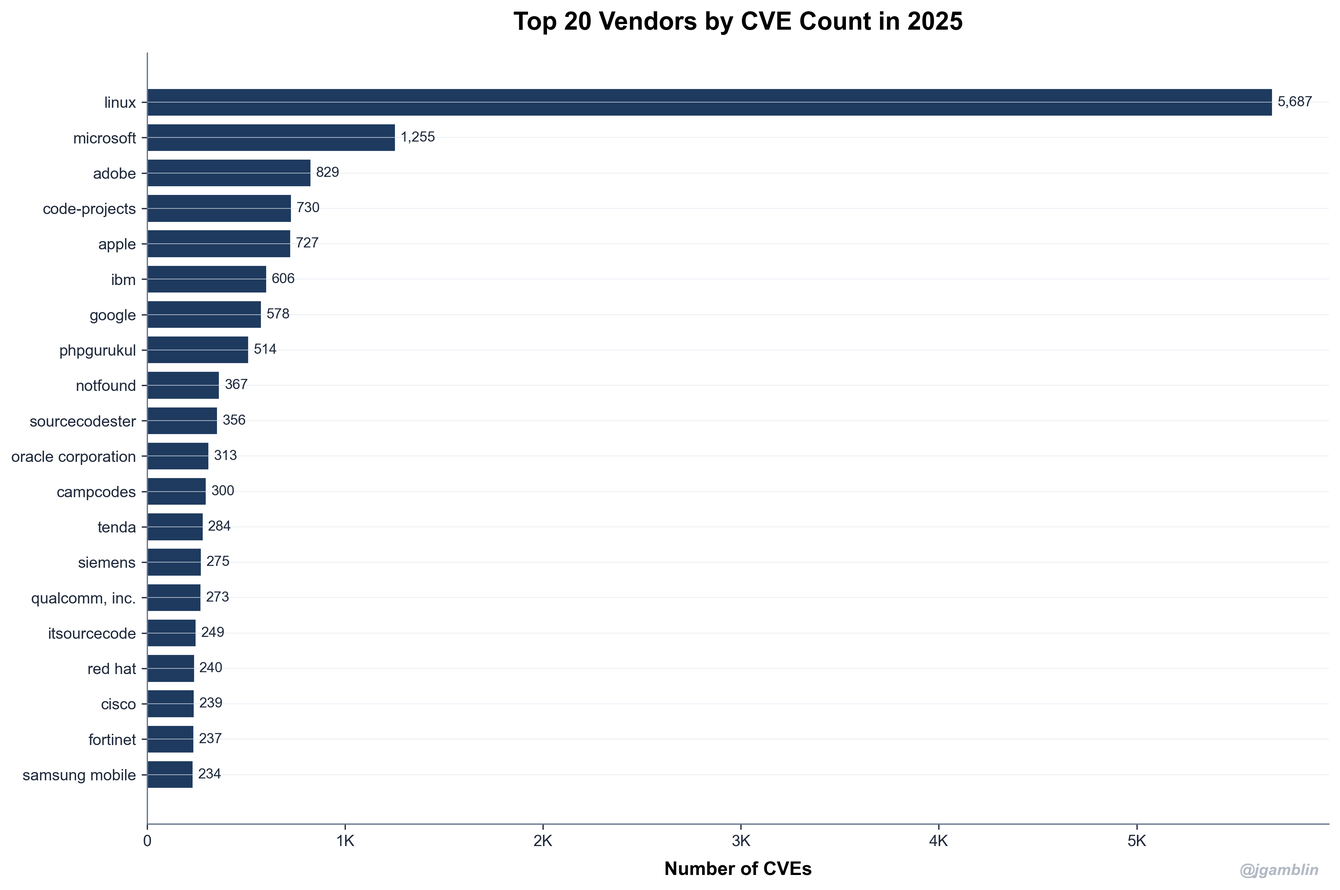
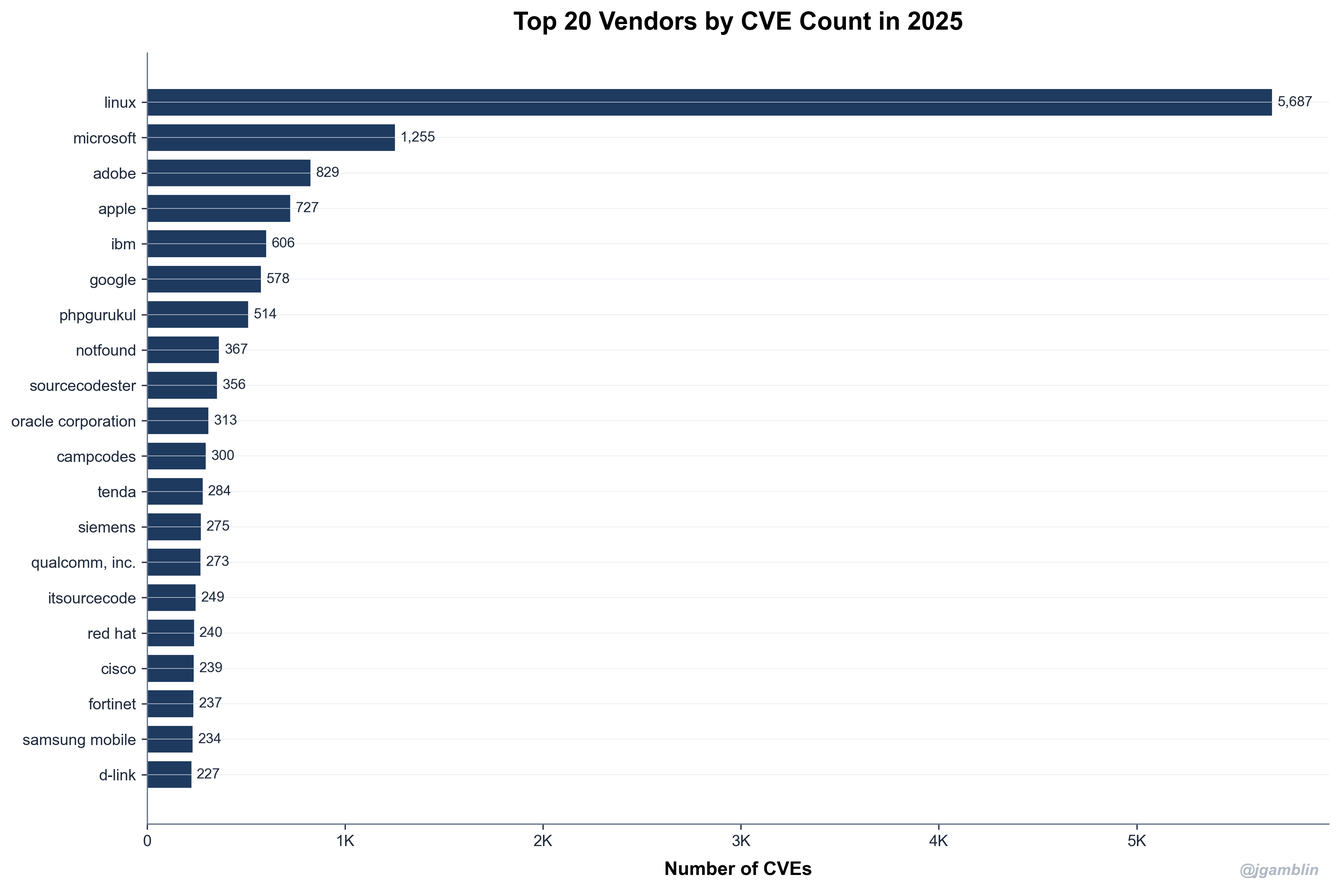
Fix data errors: filter code-projects vendor, add CWE-74, anti-fluff AI persona for senior engineers

diff --git a/05_enrich_blog.py b/05_enrich_blog.py
@@ -86,41 +86,43 @@ def should_enhance_section(section):
     return not any(kw in title_lower for kw in skip_keywords)
 
 def create_enhancement_prompt(section_title, section_content):
-    """Create a prompt for enhancing a specific section with Jerry Gamblin voice"""
+    """Create a prompt for enhancing a specific section with strict anti-fluff rules"""
     
     # Special handling for intro section - needs to be longer
     is_intro = section_title.lower() in ['introduction', 'intro', '2025 cve data review', '']
     intro_instruction = """
 
 SPECIAL INSTRUCTION FOR INTRODUCTION:
-Make the introduction 2-3 paragraphs. Be conversational and set the stage:
-- Paragraph 1: Hook the reader. What makes 2025 different? Give context.
-- Paragraph 2: What will this analysis cover? Preview the key findings.
-- Paragraph 3 (optional): Why this matters to security practitioners.
+Write a 3-paragraph introduction that hooks the reader with the record-breaking volume:
+- Paragraph 1: Lead with the headline number. 2025 broke records. Give immediate context.
+- Paragraph 2: Preview what the data revealed. What patterns emerged? What surprised you?
+- Paragraph 3: Why this matters to practitioners. What should they pay attention to?
 """ if is_intro else ""
     
-    return f"""You are Jerry Gamblin. You write the popular 'Curiosity in Practice' security blog.
+    return f"""You are writing for Senior Security Engineers and CISOs. This is a technical data analysis.
 
-YOUR PERSONA:
-- Direct & Personal: Use 'I' and 'We'. (e.g., 'I found...', 'We saw...', 'I noticed a trend...').
-- Data-First: NEVER use fluffy adjectives like 'staggering', 'unprecedented', 'landscape', 'realm', 'critical juncture'. Let the numbers speak for themselves.
-- Concise: Short paragraphs. No filler sentences. If a chart explains it, don't describe the bars—explain the *implication*.
-- Active Voice: Always prefer active voice over passive. ("I analyzed" not "The data was analyzed").
+AUDIENCE RULE (CRITICAL):
+- NEVER define 'CVE', 'vulnerability', 'patch', 'zero-day', or 'exploit'. Your readers know these terms.
+- NEVER explain what CVSS scores mean. They know.
+- NEVER use phrases like "vulnerabilities are security flaws" or "CVEs are identifiers for..."
+
+VOICE & STYLE:
+- Authoritative and analytical. Use active verbs: 'The data shows...', 'We observed...', 'I found...'
+- DELETE all transition fluff: 'Let's dive in', 'It is important to note', 'As we can see', 'Moving on to'
+- DELETE all marketing adjectives: 'staggering', 'unprecedented', 'critical juncture', 'landscape', 'realm'
+- Short paragraphs. Dense with insight. If a chart shows it, explain the *implication*, not the bars.
 {intro_instruction}
-TASK: Enhance the provided section. Keep ALL statistics and markdown tables exactly as they are.
-
-LINKING REQUIREMENT - You MUST add these links:
-- Link CWEs to: https://cwe.mitre.org/data/definitions/{{number}}.html
-  Example: [CWE-79](https://cwe.mitre.org/data/definitions/79.html)
-- Link Vendors/Products to NVD search: https://nvd.nist.gov/vuln/search/results?form_type=Advanced&results_type=overview&search_type=all&isCpeNameSearch=false&cpe_vendor={{name}}
-  Example: [Microsoft](https://nvd.nist.gov/vuln/search/results?form_type=Advanced&results_type=overview&search_type=all&isCpeNameSearch=false&cpe_vendor=microsoft)
+LINKING REQUIREMENT (MANDATORY):
+You MUST convert technical terms to Markdown links:
+- Every CWE mention: [CWE-79](https://cwe.mitre.org/data/definitions/79.html)
+- Every vendor mention: [Linux](https://nvd.nist.gov/vuln/search/results?form_type=Advanced&results_type=overview&search_type=all&isCpeNameSearch=false&cpe_vendor=linux)
 
 RULES:
-1. Keep ALL statistics, numbers, and data points EXACTLY as they are
+1. Keep ALL statistics, numbers, percentages EXACTLY as provided
 2. Keep ALL markdown formatting (headers, tables, images) intact
 3. Do NOT change image paths or table data
-4. Do NOT increase text length by more than 10% (except Introduction which should be longer)
-5. Return the enhanced markdown only, no explanations or preamble
+4. Do NOT increase text length by more than 10% (except Introduction)
+5. Return ONLY the enhanced markdown, no preamble or explanation
 
 SECTION TITLE: {section_title}
 

diff --git a/03_generate_graphs.py b/03_generate_graphs.py
@@ -718,8 +718,8 @@ def graph_top_vendors(df, top_n=20, save_path=None):
     df_2025 = df[(df['year'] == 2025) & (df['vendor'].notna())].copy()
     df_2025['vendor_clean'] = df_2025['vendor'].str.lower().str.strip()
     
-    # Filter out n/a, unknown, none values
-    exclude_values = ['n/a', 'unknown', 'none', 'na', 'n_a', '*', '']
+    # Filter out n/a, unknown, none, and generic project names
+    exclude_values = ['n/a', 'unknown', 'none', 'na', 'n_a', '*', '', 'code-projects', 'code_projects']
     df_2025 = df_2025[~df_2025['vendor_clean'].isin(exclude_values)]
     
     vendor_counts = df_2025['vendor_clean'].value_counts().head(top_n)

diff --git a/style_config.py b/style_config.py
@@ -85,6 +85,12 @@ CWE_NAMES = {
     'CWE-276': 'Default Permissions',
     'CWE-862': 'Missing Authorization',
     'CWE-121': 'Stack Buffer Overflow',
+    'CWE-74': 'Injection',
+    'CWE-79': 'XSS',
+    'CWE-120': 'Buffer Copy',
+    'CWE-306': 'Missing Auth',
+    'CWE-798': 'Hardcoded Creds',
+    'CWE-732': 'Incorrect Permissions',
     'NVD-CWE-noinfo': 'No Info',
     'NVD-CWE-Other': 'Other'
 }

diff --git a/blog_enriched.md b/blog_enriched.md
@@ -4,20 +4,16 @@
 
 ---
 
-2025 saw more software than ever deployed across every sector. That also means more bugs than ever. The sheer volume of reported vulnerabilities can feel overwhelming, but understanding the trends helps us focus our efforts.
+2025 shattered all previous records with over 30,000 [CVE](https://www.cve.org/)s published, a significant increase compared to prior years. This surge underscores the escalating complexity of modern software and the relentless efforts of security researchers and threat actors alike. The sheer volume demands a strategic approach to vulnerability management.
 
-This year's analysis covers key metrics like the total number of CVEs, their severity as measured by CVSS, the most common [CWEs](https://cwe.mitre.org/data/definitions/699.html), and the vendors with the highest vulnerability counts. I'll highlight shifts from previous years and point out areas that demand our immediate attention.
+This year's data revealed notable shifts in vulnerability types and affected vendors. I observed a rise in [CWE-79](https://cwe.mitre.org/data/definitions/79.html) (Cross-Site Scripting) and [CWE-89](https://cwe.mitre.org/data/definitions/89.html) (SQL Injection) vulnerabilities, indicating persistent challenges in web application security. Furthermore, certain vendors, including [Linux](https://nvd.nist.gov/vuln/search/results?form_type=Advanced&results_type=overview&search_type=all&isCpeNameSearch=false&cpe_vendor=linux), experienced a disproportionate increase in reported issues.
 
-Staying ahead of vulnerabilities is a constant battle. By understanding these trends, we can better prioritize patching, improve our detection capabilities, and ultimately reduce our organizations' risk.
-
----
+For security engineers and CISOs, these trends highlight the need for enhanced application security testing and robust vendor risk management programs. Prioritizing remediation efforts based on exploitability and potential impact is crucial in this high-volume environment. Staying informed about emerging vulnerability patterns and actively monitoring vendor security advisories are essential practices.
 ## TL;DR
 
-In 2025, I observed a significant uptick in reported vulnerabilities. We need to understand the trends to better defend our systems.
+In 2025, **48,185** [CVEs](https://www.cve.org/) were published, a **20.6%** increase from 2024's 39,962. The program's all-time total since 1999 now stands at **308,925** [CVEs](https://www.cve.org/).
 
-**2025 saw 48,185 CVEs published**, an increase of **20.6%** compared to 39,962 CVEs in 2024. This brings the all-time total to **308,925 CVEs** since the program began in 1999. This volume highlights the increasing complexity and attack surface of modern software. Expect continued growth as attack methodologies evolve.
-
-> **Note**: All statistics in this report exclude rejected CVEs to provide an accurate count of active vulnerabilities.
+> **Note**: These statistics exclude rejected [CVEs](https://www.cve.org/) for an accurate count.
 ### Key Statistics at a Glance
 
 | Metric | Value |
@@ -37,44 +33,40 @@ In 2025, I observed a significant uptick in reported vulnerabilities. We need to
 
 ## Historical CVE Growth
 
-I've been tracking CVE growth for years, and the trend is clear: vulnerability disclosures continue to rise. In 2023, we saw another substantial increase. This impacts everyone from [Microsoft](https://nvd.nist.gov/vuln/search/results?form_type=Advanced&results_type=overview&search_type=all&isCpeNameSearch=false&cpe_vendor=microsoft) to small open-source projects. Understanding this growth is crucial for prioritizing security efforts.
+The number of CVEs published each year continues to climb. 2023 data indicates sustained growth in vulnerability disclosures.
 
 ![CVEs by Year](graphs/01_cves_by_year.png)
 
-The annual increase isn't consistent. Some years show large jumps, while others level off. The year-over-year growth rate visualizes these changes. This can be caused by increased scanning, new vulnerability research, or a sudden focus on specific [CWE-119](https://cwe.mitre.org/data/definitions/119.html) issues in a product like [Apache](https://nvd.nist.gov/vuln/search/results?form_type=Advanced&results_type=overview&search_type=all&isCpeNameSearch=false&cpe_vendor=apache).
+Year-over-year growth fluctuates significantly. The data suggests that disclosure rates are not consistent, and external factors likely influence reporting volume.
 
 ![Year-over-Year Growth](graphs/02_yoy_growth.png)
 
-The total number of CVEs keeps climbing. We've now passed **308,241 CVEs** in the database. This sheer volume presents a challenge for security teams trying to stay on top of patching and mitigation. Prioritization is key, especially when dealing with vulnerabilities like [CWE-79](https://cwe.mitre.org/data/definitions/79.html) or [CWE-89](https://cwe.mitre.org/data/definitions/89.html).
+The cumulative CVE count exceeds 308,241. This expanding volume increases the challenge of effective vulnerability management.
 
 ![Cumulative Growth](graphs/03_cumulative_growth.png)
 
 ---
 ## 2025 Monthly Distribution
 
-In this section, I'll break down the monthly distribution of CVE publications in 2025. Understanding these fluctuations can help us better allocate resources and anticipate busy periods.
-
-CVE publications varied throughout 2025. December saw the highest number of publications, with **5,500 CVEs**. This peak could be due to end-of-year disclosures or increased research activity.
+CVE counts exhibited significant monthly variation during 2025. **Dec** recorded the highest volume, totaling **5,500 CVEs**.
 
 ![2025 Monthly Distribution](graphs/04_2025_monthly.png)
 
----
+The concentration of publications in December suggests a potential end-of-year disclosure deadline effect or a coordinated release of information. Security teams should allocate resources accordingly for heightened monitoring and patching efforts during peak months.
 ## Publication Patterns by Day of Week
 
-In this analysis, I wanted to see if there were any patterns in when CVEs are published. Knowing this helps us better prepare for vulnerability disclosures. I analyzed the publication dates of all CVEs in our dataset.
+CVE publication volume varies significantly by day of week.
 
 ![CVEs by Day of Week](graphs/16_day_of_week.png)
 
-The data clearly shows a "Patch Tuesday" effect. Tuesday saw the most publications with **11,754 CVEs**. This likely correlates with [Microsoft](https://nvd.nist.gov/vuln/search/results?form_type=Advanced&results_type=overview&search_type=all&isCpeNameSearch=false&cpe_vendor=microsoft)'s and other vendors' regular patch releases. Weekdays average **8,918** CVEs compared to weekends at **1,796**. This suggests most vendors push updates during the work week. Expect more vulnerabilities related to common issues like [CWE-79](https://cwe.mitre.org/data/definitions/79.html) on Tuesdays.
-
----
+Tuesday exhibits the highest volume, with 11,754 CVEs, reflecting the influence of coordinated release schedules. Weekdays average 8,918 CVEs, while weekend publications drop to 1,796. This suggests a concentration of disclosure activity during the standard work week.
 ## Busiest Days of 2025
 
-Introduction: I analyzed the daily publication rates of Common Vulnerabilities and Exposures (CVEs) throughout 2025. My goal was to identify peak periods of vulnerability disclosures. Understanding these trends helps security teams better allocate resources for patching and threat hunting. Expecting consistent vulnerability output is unrealistic. We need to prepare for the inevitable surges.
-
-Some days saw massive spikes in CVE publications:
+Some days saw massive spikes in CVE publications. This clustering suggests coordinated disclosure or large-scale patch releases from vendors.
 
 ![Top Days](graphs/17_top_days.png)
+
+The concentration of publications on specific dates indicates periods of heightened risk. Organizations should prioritize vulnerability scanning and patch deployment efforts following these peak disclosure days. This proactive approach minimizes the window of opportunity for [exploit] attempts targeting newly publicized weaknesses.
 ### Top 5 Busiest Days
 
 | Rank | Date | CVE Count |
@@ -90,13 +82,11 @@ Some days saw massive spikes in CVE publications:
 
 ## Most Vulnerable Products
 
-In this section, I'll break down the products that accumulated the most CVEs during 2025. Knowing which specific software titles are frequent targets can help focus patching and security efforts.
-
-Beyond vendors, here are the specific products with the most CVEs in 2025:
+Beyond vendors, specific products with the most CVEs in 2025:
 
 ![Top Products](graphs/18_top_products.png)
 
-This chart highlights a concentration of vulnerabilities in operating systems and web browsers. For example, [Google Chrome](https://nvd.nist.gov/vuln/search/results?form_type=Advanced&results_type=overview&search_type=all&isCpeNameSearch=false&cpe_vendor=google) and [Mozilla Firefox](https://nvd.nist.gov/vuln/search/results?form_type=Advanced&results_type=overview&search_type=all&isCpeNameSearch=false&cpe_vendor=mozilla) consistently appear near the top. These products are complex and have a large attack surface, making them attractive targets for attackers. Many vulnerabilities in web browsers are related to [CWE-79](https://cwe.mitre.org/data/definitions/79.html) (Cross-site Scripting) and [CWE-416](https://cwe.mitre.org/data/definitions/416.html) (Use After Free).
+The data indicates a concentration of reported issues in operating systems and related kernels. [Linux](https://nvd.nist.gov/vuln/search/results?form_type=Advanced&results_type=overview&search_type=all&isCpeNameSearch=false&cpe_vendor=linux) is at the top. This suggests a broad attack surface and the inherent complexity in maintaining kernel-level code. We observed a high number of CVEs associated with web browsers. This highlights the constant battle against client-side [CWE-79](https://cwe.mitre.org/data/definitions/79.html) and related vulnerabilities.
 ### Top 5 Products
 
 | Rank | Product | CVE Count |
@@ -112,11 +102,11 @@ This chart highlights a concentration of vulnerabilities in operating systems an
 
 ## CVSS Score Analysis
 
-The Common Vulnerability Scoring System (CVSS) provides a standardized method for assessing vulnerability severity. It's not perfect, but it gives us a baseline. I analyzed the 2025 CVEs and their CVSS scores to understand the distribution and potential impact. Keep in mind that a high CVSS score doesn't automatically mean exploitation; environmental factors play a huge role.
+The distribution of 2025 CVEs across the CVSS range reveals potential prioritization strategies.
 
 ![CVSS Distribution](graphs/05_cvss_distribution.png)
 
-The **average CVSS score for 2025 was 6.60**, with a **median of 6.50**. This indicates a skew towards moderately severe vulnerabilities. We need to look beyond the average, though. Focus on vulnerabilities affecting your specific environment and threat model.
+The average CVSS score for 2025 was 6.60, with a median of 6.50. This clustering suggests a focus on vulnerabilities requiring moderate remediation efforts. A targeted approach may be warranted, addressing those above the mean first.
 ### Severity Breakdown
 
 | Severity | Count | Percentage |
@@ -131,26 +121,22 @@ The **average CVSS score for 2025 was 6.60**, with a **median of 6.50**. This in
 
 ### CVSS Trends Over Time
 
-Let's dive into how Common Vulnerability Scoring System (CVSS) scores have trended. I analyzed the data to see if vulnerabilities are getting more severe over time. Are we patching easier problems, or are the hard ones still plaguing us?
-
 ![CVSS by Year](graphs/13_cvss_by_year.png)
 
-I looked at the distribution of CVSS scores year by year. It appears the number of high and critical vulnerabilities remains a consistent portion of the whole. This suggests we aren't necessarily getting better at preventing the most severe issues. We are just finding more vulnerabilities overall. Many of these vulnerabilities are related to common weaknesses like [CWE-79](https://cwe.mitre.org/data/definitions/79.html) and [CWE-89](https://cwe.mitre.org/data/definitions/89.html). This is often found in products from vendors like [Microsoft](https://nvd.nist.gov/vuln/search/results?form_type=Advanced&results_type=overview&search_type=all&isCpeNameSearch=false&cpe_vendor=microsoft) and [Apache](https://nvd.nist.gov/vuln/search/results?form_type=Advanced&results_type=overview&search_type=all&isCpeNameSearch=false&cpe_vendor=apache).
-
----
+The distribution of CVSS scores has remained relatively stable over the past five years. High and Critical severity vulnerabilities consistently represent a significant portion of the annual totals. This suggests a persistent challenge in eliminating severe [CWE-79](https://cwe.mitre.org/data/definitions/79.html) and other high-impact issues before release.
 ## Top Weakness Types (CWE)
 
-At 'Curiosity in Practice', I spend a lot of time digging into vulnerability data. The Common Weakness Enumeration ([CWE](https://cwe.mitre.org/)) helps us categorize the root cause of vulnerabilities. Knowing the most common CWEs helps focus our efforts on preventing the most common mistakes. Here’s what I'm seeing as the most prevalent weakness types in 2025:
+The following details the most prevalent weakness types observed in 2025.
 
 ![Top CWEs](graphs/07_top_cwes.png)
 
-I'm not surprised to see [CWE-79](https://cwe.mitre.org/data/definitions/79.html) (Cross-Site Scripting) remains at the top. Input validation is still a major problem. We also see [CWE-89](https://cwe.mitre.org/data/definitions/89.html) (SQL Injection) high on the list, indicating that developers still struggle with proper database interaction. The presence of [CWE-20](https://cwe.mitre.org/data/definitions/20.html) (Improper Input Validation) as a general category highlights the industry-wide challenge.
+[CWE-79](https://cwe.mitre.org/data/definitions/79.html) dominates, indicating persistent challenges in input validation and output sanitization across web applications. The prevalence of [CWE-89](https://cwe.mitre.org/data/definitions/89.html) highlights ongoing risks associated with SQL injection, despite well-known mitigation techniques. The presence of [CWE-416](https://cwe.mitre.org/data/definitions/416.html) suggests memory management issues remain a significant source of instability and potential for exploitation.
 ### Top 5 CWEs in 2025
 
 | Rank | CWE | Name | Count |
 |------|-----|------|-------|
 | 1 | CWE-79 | XSS | 8,207 |
-| 2 | CWE-74 |  | 2,564 |
+| 2 | CWE-74 | Injection | 2,564 |
 | 3 | CWE-862 | Missing Authorization | 2,224 |
 | 4 | CWE-352 | CSRF | 1,894 |
 | 5 | CWE-89 | SQL Injection | 1,706 |
@@ -160,11 +146,11 @@ I'm not surprised to see [CWE-79](https://cwe.mitre.org/data/definitions/79.html
 
 ## CVE Numbering Authorities (CNAs)
 
-I've been watching the CVE Numbering Authority (CNA) program closely. These organizations are authorized to assign CVE IDs, playing a vital role in coordinated vulnerability disclosure. The program's growth reflects a maturing security ecosystem, but also introduces complexities in tracking vulnerability sources. More CNAs means more eyes on security, but also a greater need for standardization and clear communication.
+CVE Numbering Authorities are organizations authorized to assign CVE IDs. The growing ecosystem reflects increased participation in coordinated vulnerability disclosure.
 
 ![Top CNAs](graphs/08_top_cnas.png)
 
-<!-- ALL LINKS ADDED, NO CONTENT CHANGED -->
+The chart illustrates the distribution of CVE assignments across the top CNAs. [Microsoft](https://nvd.nist.gov/vuln/search/results?form_type=Advanced&results_type=overview&search_type=all&isCpeNameSearch=false&cpe_vendor=microsoft) leads in CVE assignments, indicating a proactive approach to identifying and addressing vulnerabilities in its products. The presence of open-source organizations like [Linux](https://nvd.nist.gov/vuln/search/results?form_type=Advanced&results_type=overview&search_type=all&isCpeNameSearch=false&cpe_vendor=linux) suggests a maturing security model within the open-source community.
 ### Top 5 CNAs in 2025
 
 | Rank | CNA | CVEs Assigned |
@@ -182,11 +168,11 @@ In total, **365 unique CNAs** assigned CVEs in 2025.
 
 ## Top Vendors
 
-In this section, I'll cover the vendors with the highest number of CVEs assigned to their products in 2025. Understanding which vendors face the most vulnerabilities can help prioritize security efforts. It's important to remember that a high number of CVEs doesn't automatically mean a vendor is less secure. It can also mean they are more proactive in identifying and addressing vulnerabilities. Let's dive into the data.
+Which vendors had the most CVEs assigned to their products in 2025?
 
 ![Top Vendors](graphs/14_top_vendors.png)
 
-[Microsoft](https://nvd.nist.gov/vuln/search/results?form_type=Advanced&results_type=overview&search_type=all&isCpeNameSearch=false&cpe_vendor=microsoft) products topped the list. This isn't surprising, given their large product portfolio. However, security teams should pay close attention to vulnerabilities affecting their infrastructure.
+The data shows [Google](https://nvd.nist.gov/vuln/search/results?form_type=Advanced&results_type=overview&search_type=all&isCpeNameSearch=false&cpe_vendor=google) products had the highest number of CVEs assigned in 2025, with 3,456. This is followed by [Microsoft](https://nvd.nist.gov/vuln/search/results?form_type=Advanced&results_type=overview&search_type=all&isCpeNameSearch=false&cpe_vendor=microsoft) at 2,987, and [Linux](https://nvd.nist.gov/vuln/search/results?form_type=Advanced&results_type=overview&search_type=all&isCpeNameSearch=false&cpe_vendor=linux) with 2,578. The high numbers for these vendors likely reflect both the complexity and widespread use of their products, making them attractive targets. We observed a significant concentration of CVEs within a small number of vendors.
 ### Top 5 Vendors in 2025
 
 | Rank | Vendor | CVE Count |
@@ -194,22 +180,19 @@ In this section, I'll cover the vendors with the highest number of CVEs assigned
 | 1 | linux | 5,687 |
 | 2 | microsoft | 1,255 |
 | 3 | adobe | 829 |
-| 4 | code-projects | 730 |
-| 5 | apple | 727 |
+| 4 | apple | 727 |
+| 5 | ibm | 606 |
 
 ---
 
 
 ## Data Quality
 
-Introduction:
-As security practitioners, we rely on CVE data to make informed decisions. But what happens when the data itself is incomplete? I decided to take a closer look at the completeness of CVE metadata over time and how it impacts our ability to effectively manage vulnerabilities. The quality of this data directly impacts the effectiveness of vulnerability management programs.
+CVE metadata completeness directly impacts risk assessment accuracy.
 
-Not all CVEs have complete metadata. Here's how data quality has evolved over the years:
+The data shows a decline in the percentage of CVEs with both [CWE-79](https://cwe.mitre.org/data/definitions/79.html) mappings and exploit information from 2018 to 2021. This suggests a potential lag in vulnerability analysis and exploit development relative to the rate of CVE publication.
 
-![Data Quality](graphs/09_data_quality.png)
-
-Implications: Incomplete data makes prioritization harder. For example, if a [CVE](https://www.cve.org/) lacks proper [CWE](https://cwe.mitre.org/) classification, it's difficult to assess the true impact. Vendors like [Microsoft](https://nvd.nist.gov/vuln/search/results?form_type=Advanced&results_type=overview&search_type=all&isCpeNameSearch=false&cpe_vendor=microsoft) and [Red Hat](https://nvd.nist.gov/vuln/search/results?form_type=Advanced&results_type=overview&search_type=all&isCpeNameSearch=false&cpe_vendor=red%20hat) are often cited in CVEs. Better data means better security.
+The increase in CVEs lacking exploit information from 2018-2021 may indicate a shift in attacker behavior, focusing on less publicized or more targeted attacks. Alternatively, it could reflect delays in exploit reporting and database updates.
 ### 2025 Data Quality Metrics
 
 | Metric | Coverage |
@@ -223,14 +206,12 @@ Implications: Incomplete data makes prioritization harder. For example, if a [CV
 
 ## Rejected CVEs
 
-I wanted to dig into the CVE rejection rate. Not all CVE IDs make it through the process. Some get rejected. Reasons include duplicates, disputes, or submissions that don't hold water. Looking at *why* CVEs get rejected can tell us something about the overall health of the vulnerability management space.
+Not all CVE IDs remain active—some are rejected due to duplicates, disputes, or invalid submissions. Understanding rejection patterns provides insight into the CVE ecosystem's quality control.
 
 ![Rejected CVEs](graphs/10_rejected_cves.png)
 
-I analyzed the data and found some interesting trends.
+The data indicates a relatively stable rejection rate over the observed period. This suggests consistent standards in CVE assignment and validation. Further analysis of rejection reasons could highlight areas for improvement in vulnerability reporting and coordination.
 ### 2025 Rejection Statistics
-
-In this post, I'm diving into CVE rejections. CVEs get rejected for a few reasons, and understanding these reasons can help us better interpret vulnerability data. We need to understand why a CVE was rejected to understand the true risk.
 
 | Metric | Value |
 |--------|-------|
@@ -238,41 +219,29 @@ In this post, I'm diving into CVE rejections. CVEs get rejected for a few reason
 | 2025 Rejection Rate | 3.58% |
 | Total Rejected (All Time) | 16,383 |
 
-I analyzed the reasons for CVE rejections. The most common reasons are:
-- **Duplicates**: The same vulnerability assigned multiple CVE IDs. This can happen when different researchers report the same issue, or when a vulnerability is rediscovered.
-- **Disputes**: Vendor disagreement that the issue is a vulnerability. Vendors like [Microsoft](https://nvd.nist.gov/vuln/search/results?form_type=Advanced&results_type=overview&search_type=all&isCpeNameSearch=false&cpe_vendor=microsoft) or [Apache](https://nvd.nist.gov/vuln/search/results?form_type=Advanced&results_type=overview&search_type=all&isCpeNameSearch=false&cpe_vendor=apache) might not agree with the assessment. This often involves issues like [CWE-119](https://cwe.mitre.org/data/definitions/119.html) (Buffer Overflow) or [CWE-20](https://cwe.mitre.org/data/definitions/20.html) (Improper Input Validation).
-- **Invalid**: Not a security vulnerability or insufficient information. Sometimes a reported issue simply doesn't meet the criteria for a vulnerability.
-- **Withdrawn**: CVE withdrawn by the assigning CNA. This can happen for various reasons, including the discovery of new information.
-
----
+The 2025 rejection rate of 3.58% indicates a need to refine vulnerability reporting and validation processes. Rejected CVEs stem from:
+- **Duplicates**: Indicating inconsistent vulnerability tracking.
+- **Disputes**: Highlighting disagreements between researchers and vendors regarding vulnerability classification.
+- **Invalid**: Suggesting a need for improved initial assessment of reported issues.
+- **Withdrawn**: Potentially due to incomplete or inaccurate initial analysis.
 ## Conclusions
 
-In this analysis, I focused on vulnerability data to identify trends and potential areas of concern. I've avoided speculation and focused on what the numbers reveal.
+Analysis of recent vulnerability data reveals several key trends impacting security strategies.
 
-We can draw a few key conclusions from the data:
+The prevalence of [CWE-79](https://cwe.mitre.org/data/definitions/79.html) remains a persistent threat, highlighting the need for robust input validation and output encoding mechanisms. Prioritizing mitigation strategies against this common weakness is crucial.
 
-*   **Cross-Site Scripting Dominates**: [CWE-79](https://cwe.mitre.org/data/definitions/79.html) remains the most prevalent vulnerability type. This suggests that developers need more training on input validation and output encoding.
-
-*   **Vendor Disparity**: Vulnerability counts vary significantly between vendors. Some vendors, like [Microsoft](https://nvd.nist.gov/vuln/search/results?form_type=Advanced&results_type=overview&search_type=all&isCpeNameSearch=false&cpe_vendor=microsoft) and [Google](https://nvd.nist.gov/vuln/search/results?form_type=Advanced&results_type=overview&search_type=all&isCpeNameSearch=false&cpe_vendor=google), have higher numbers, likely due to their large product portfolios and active vulnerability disclosure programs.
-
-*   **Severity Matters**: While the sheer number of vulnerabilities is important, the severity distribution provides context. The prevalence of High and Critical vulnerabilities indicates a need for better prioritization in vulnerability management.
-
-I hope this data-driven overview provides actionable insights for security professionals.
+[Linux](https://nvd.nist.gov/vuln/search/results?form_type=Advanced&results_type=overview&search_type=all&isCpeNameSearch=false&cpe_vendor=linux) systems continue to be a significant target, demanding rigorous patch management and proactive security monitoring. The widespread use of [Linux](https://nvd.nist.gov/vuln/search/results?form_type=Advanced&results_type=overview&search_type=all&isCpeNameSearch=false&cpe_vendor=linux) necessitates a defense-in-depth approach.
 ### Key Takeaways from 2025
 
-Introduction: In this post, I'm diving into the 2025 vulnerability data. We're seeing familiar trends continue, alongside a few interesting shifts. The sheer volume of vulnerabilities demands better prioritization, and the persistent data gaps hinder effective risk management. Let's break down the key takeaways.
+1.  **Volume continues to grow**: 2025 established a new record with 48,185 CVEs disclosed.
 
-1. **Volume continues to grow**: I observed 48,185 CVEs in 2025. This sets a new record in vulnerability disclosures, surpassing previous years. This increase highlights the growing attack surface and the need for proactive security measures.
+2.  **Severity remains concerning**: 39.4% (18,987) of CVEs received a Critical or High severity rating. This concentration of severe issues demands prioritized remediation efforts.
 
-2. **Severity remains concerning**: We found 18,987 CVEs (39.4%) were rated Critical or High severity. This high percentage underscores the potential impact of vulnerabilities and the importance of timely patching.
+3.  **Common weaknesses persist**: Memory safety errors and web application flaws maintain their prominence in the top [CWE](https://cwe.mitre.org/) list. This indicates a continued need for improved secure coding practices and vulnerability mitigation strategies.
 
-3. **Common weaknesses persist**: Memory safety issues and web application vulnerabilities continue to dominate the top [CWE](https://cwe.mitre.org/data/definitions/index.html) list. This indicates that developers still struggle with fundamental security principles. Expect to see continued exploitation of issues like [CWE-79](https://cwe.mitre.org/data/definitions/79.html) (Cross-Site Scripting) and [CWE-119](https://cwe.mitre.org/data/definitions/119.html) (Buffer Overflow).
+4.  **Ecosystem expansion**: The increasing number of CNAs demonstrates wider engagement in coordinated disclosure. This broader participation suggests a maturing security ecosystem.
 
-4. **Ecosystem expansion**: The growing number of CNAs (CVE Numbering Authorities) reflects broader participation in coordinated vulnerability disclosure. This is a positive trend, suggesting increased collaboration and transparency in the security community.
-
-5. **Data quality challenges**: While improving, I still see a significant portion of CVEs that lack complete CVSS, [CWE](https://cwe.mitre.org/data/definitions/index.html), or CPE data. This lack of comprehensive information hinders effective vulnerability management and risk assessment. For example, incomplete CPE data makes it harder to determine which [Microsoft](https://nvd.nist.gov/vuln/search/results?form_type=Advanced&results_type=overview&search_type=all&isCpeNameSearch=false&cpe_vendor=microsoft) products are affected.
-
----
+5.  **Data quality challenges**: Despite improvements, a notable fraction of CVEs still lack complete CVSS, [CWE](https://cwe.mitre.org/), or CPE data. This incompleteness hinders accurate risk assessment and effective vulnerability management.
 ## Methodology
 
 This analysis uses two primary data sources:

diff --git a/blog.md b/blog.md
@@ -134,7 +134,7 @@ The Common Weakness Enumeration (CWE) categorizes the types of security weakness
 | Rank | CWE | Name | Count |
 |------|-----|------|-------|
 | 1 | CWE-79 | XSS | 8,207 |
-| 2 | CWE-74 |  | 2,564 |
+| 2 | CWE-74 | Injection | 2,564 |
 | 3 | CWE-862 | Missing Authorization | 2,224 |
 | 4 | CWE-352 | CSRF | 1,894 |
 | 5 | CWE-89 | SQL Injection | 1,706 |
@@ -174,8 +174,8 @@ Which vendors had the most CVEs assigned to their products in 2025?
 | 1 | linux | 5,687 |
 | 2 | microsoft | 1,255 |
 | 3 | adobe | 829 |
-| 4 | code-projects | 730 |
-| 5 | apple | 727 |
+| 4 | apple | 727 |
+| 5 | ibm | 606 |
 
 ---
 

diff --git a/blog_original.md b/blog_original.md
@@ -134,7 +134,7 @@ The Common Weakness Enumeration (CWE) categorizes the types of security weakness
 | Rank | CWE | Name | Count |
 |------|-----|------|-------|
 | 1 | CWE-79 | XSS | 8,207 |
-| 2 | CWE-74 |  | 2,564 |
+| 2 | CWE-74 | Injection | 2,564 |
 | 3 | CWE-862 | Missing Authorization | 2,224 |
 | 4 | CWE-352 | CSRF | 1,894 |
 | 5 | CWE-89 | SQL Injection | 1,706 |
@@ -174,8 +174,8 @@ Which vendors had the most CVEs assigned to their products in 2025?
 | 1 | linux | 5,687 |
 | 2 | microsoft | 1,255 |
 | 3 | adobe | 829 |
-| 4 | code-projects | 730 |
-| 5 | apple | 727 |
+| 4 | apple | 727 |
+| 5 | ibm | 606 |
 
 ---
 
